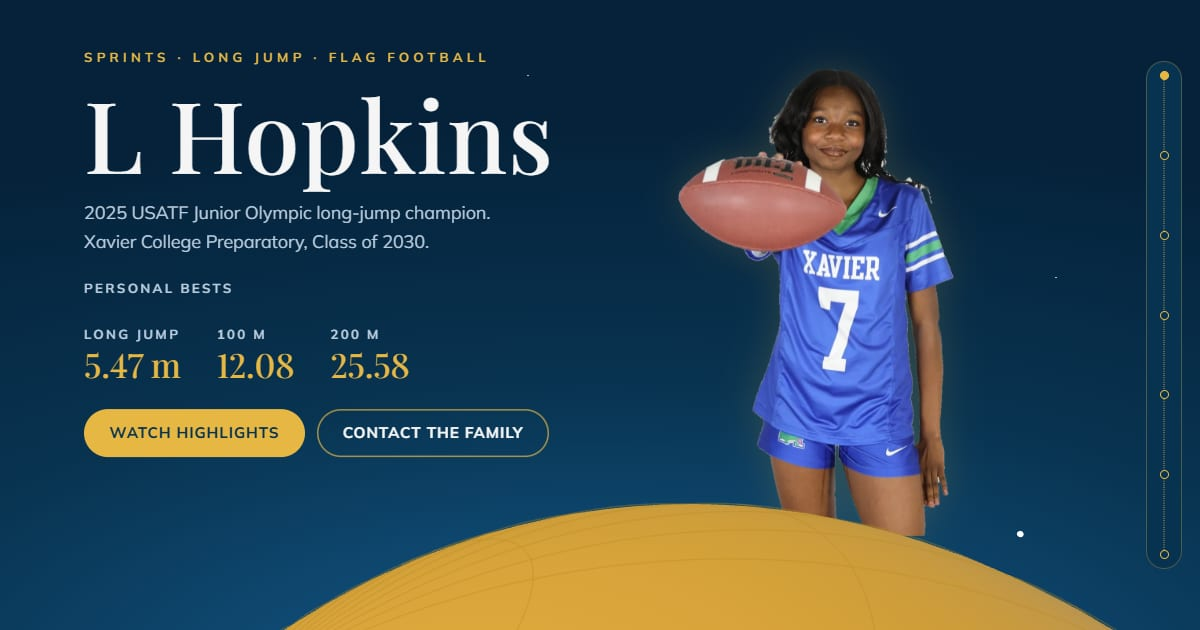
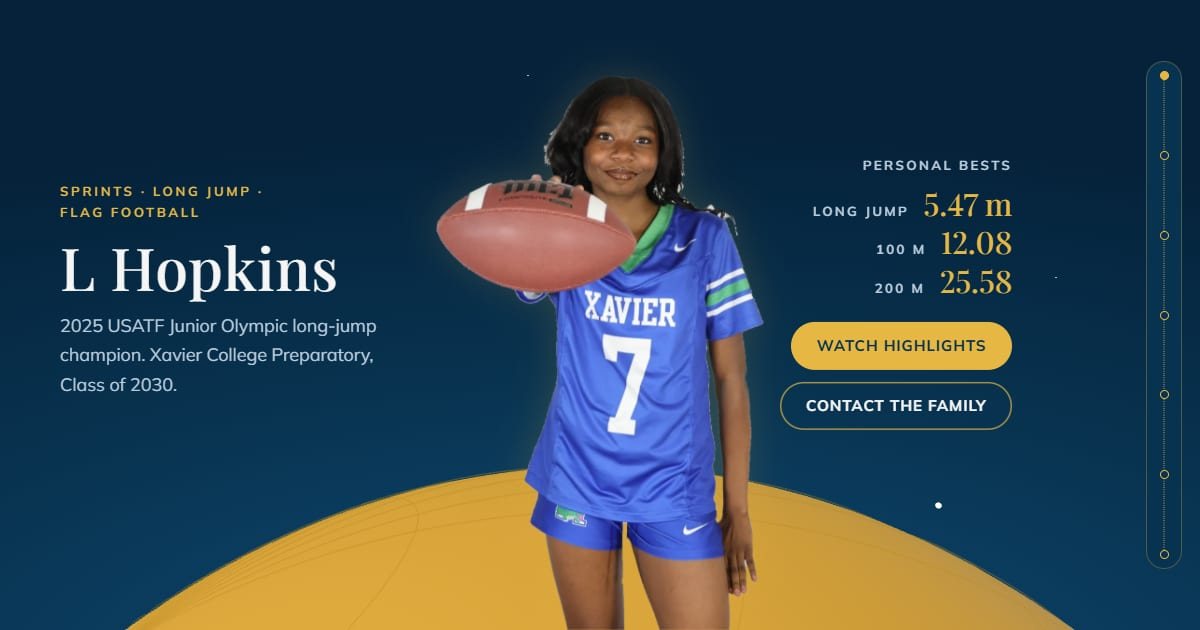
Hero: L front and center, flush with the bottom edge

diff --git a/site.css b/site.css
@@ -407,3 +407,78 @@ html { -webkit-tap-highlight-color: transparent; -webkit-text-size-adjust: 100%;
 @media (max-width: 860px) { .board__table tr.is-title { background: var(--blue); border-color: rgb(231 183 68 / .6); } }
 /* The other two jumps stay readable once landed. */
 .flights__svg .arc.is-done { opacity: .7; }
+
+/* ---------------------------------------------- hero: L front and center */
+/* L stands centred in front of the planet; the cut at her legs sits exactly on
+   the bottom edge of the hero, which is the bottom of the screen while pinned.
+   The copy splits around her: who she is on the left, her proof on the right. */
+.takeoff__stage { --horizon: .74; --lx: .5; }
+.takeoff__l {
+  left: 50%; bottom: 0; z-index: 3;
+  height: min(88vh, 100% - 6vh); width: auto;
+  transform: translate3d(calc(-50% + var(--mx, 0) * 8px), 0, 0) scale(calc(1 + var(--sc-p, 0) * .03));
+  transform-origin: 50% 100%;
+}
+.takeoff__planet, .takeoff__poster { z-index: 2; }
+.takeoff__copy {
+  z-index: 4; left: max(1.5rem, 5vw); right: calc(max(1.5rem, 5vw) + 2.5rem); width: auto; top: 46%;
+  transform: translate3d(0, calc(-50% - var(--sc-p, 0) * 5vh), 0);
+  display: grid; grid-template-columns: minmax(0, 1fr) min(34vw, 30rem) minmax(0, 1fr); align-items: center; gap: 0 1.5rem;
+}
+.takeoff__id { grid-column: 1; display: grid; gap: 1rem; justify-items: start; }
+.takeoff__proof { grid-column: 3; display: grid; gap: .6rem; justify-items: end; text-align: right; }
+.takeoff__proof .takeoff__stats { justify-content: flex-end; }
+.takeoff__proof .takeoff__actions { justify-content: flex-end; }
+.takeoff__title { font-size: clamp(3rem, 1rem + 4.6vw, 6.2rem); }
+.takeoff__line { max-width: 30ch; }
+@media (max-width: 1100px) and (min-width: 861px) {
+  .takeoff__copy { grid-template-columns: minmax(0, 1fr) min(30vw, 22rem) minmax(0, 1fr); }
+  .takeoff__stats { gap: 1rem; }
+  .takeoff__actions { flex-direction: column; align-items: flex-end; }
+}
+@media (max-width: 860px) {
+  .takeoff__stage { --horizon: .8; }
+  .takeoff__copy { left: 50%; right: auto; top: 6vh; width: min(30rem, calc(100vw - 2.5rem)); transform: translate3d(-50%, calc(var(--sc-p, 0) * -4vh), 0); grid-template-columns: 1fr; gap: .7rem; }
+  .takeoff__id, .takeoff__proof { grid-column: 1; justify-items: center; text-align: center; }
+  .takeoff__proof .takeoff__stats, .takeoff__proof .takeoff__actions { justify-content: center; }
+  .takeoff__id { gap: .6rem; }
+  .takeoff__l { height: 44vh; }
+}
+@media (min-width: 600px) and (max-width: 860px) { .takeoff__l { height: 50vh; } }
+@media (prefers-reduced-motion: reduce) {
+  .takeoff__l { transform: translateX(-50%); }
+  .takeoff__copy { transform: translateY(-50%); }
+}
+@media (prefers-reduced-motion: reduce) and (max-width: 860px) {
+  .takeoff__copy { transform: translateX(-50%); }
+}
+/* The name never breaks; the top line wraps only between its items. */
+.takeoff__title { white-space: nowrap; font-size: clamp(2.6rem, 6vw, 5.6rem); }
+.takeoff__kicker span { white-space: nowrap; }
+.takeoff__id .takeoff__kicker { letter-spacing: .2em; }
+.takeoff__stats dt, .takeoff__stats dd { white-space: nowrap; }
+.takeoff__copy { grid-template-columns: minmax(0, 1fr) min(32vw, 28rem) minmax(0, 1fr); }
+@media (max-width: 1100px) and (min-width: 861px) {
+  .takeoff__l { height: min(80vh, 100% - 6vh); }
+  .takeoff__copy { grid-template-columns: minmax(0, 1fr) min(30vw, 20rem) minmax(0, 1fr); }
+  .takeoff__stats dd { font-size: 1.55rem; }
+  .takeoff__stats dt { letter-spacing: .1em; }
+}
+@media (max-width: 860px) { .takeoff__title { font-size: clamp(2.6rem, 11vw, 4.6rem); } }
+/* Her figure is about 0.6 of her height wide, so the centre column follows the
+   viewport height; copy sizes to whatever is left on each side. */
+@media (min-width: 861px) {
+  .takeoff__copy { grid-template-columns: minmax(0, 1fr) 56vh minmax(0, 1fr); }
+  .takeoff__title { font-size: clamp(2.6rem, min(5.6vw, 9.5vh), 5.6rem); }
+  .takeoff__proof .takeoff__actions { flex-direction: column; align-items: flex-end; }
+}
+@media (min-width: 861px) {
+  .takeoff__l { height: min(88vh, 100% - 6vh, 64vw); }
+  .takeoff__copy { grid-template-columns: minmax(0, 1fr) min(56vh, 40vw) minmax(0, 1fr); }
+  .takeoff__title { font-size: clamp(2.6rem, min(4.9vw, 9.5vh), 5.6rem); }
+  /* Personal bests as a right-aligned list: event, then mark. */
+  .takeoff__proof .takeoff__stats { flex-direction: column; align-items: flex-end; gap: .35rem; margin: .2rem 0 .8rem; }
+  .takeoff__proof .takeoff__stats > div { display: flex; align-items: baseline; gap: .9rem; }
+  .takeoff__proof .takeoff__stats dd { margin: 0; font-size: clamp(1.6rem, 1.1rem + 1.1vw, 2.3rem); }
+}
+@media (max-width: 1100px) and (min-width: 861px) { .takeoff__l { height: min(80vh, 100% - 6vh, 64vw); } }

diff --git a/index.html b/index.html
@@ -51,9 +51,12 @@
     <div data-sc-stage class="takeoff__stage">
       <div class="takeoff__sky" aria-hidden="true"></div>
       <div class="takeoff__copy">
-        <p class="takeoff__kicker">Sprints · Long jump · Flag football</p>
-        <h1 class="takeoff__title">L Hopkins</h1>
-        <p class="takeoff__line">2025 USATF Junior Olympic long-jump champion. Xavier College Preparatory, Class of 2030.</p>
+        <div class="takeoff__id">
+          <p class="takeoff__kicker"><span>Sprints ·</span> <span>Long jump ·</span> <span>Flag football</span></p>
+          <h1 class="takeoff__title">L Hopkins</h1>
+          <p class="takeoff__line">2025 USATF Junior Olympic long-jump champion. Xavier College Preparatory, Class of 2030.</p>
+        </div>
+        <div class="takeoff__proof">
         <p class="takeoff__statlabel">Personal bests</p>
         <dl class="takeoff__stats">
           <div><dt>Long jump</dt><dd>5.47 m</dd></div>
@@ -63,6 +66,7 @@
         <div class="takeoff__actions">
           <a class="button" href="#highlights">Watch highlights</a>
           <a class="button button--ghost" href="#contact">Contact the family</a>
+        </div>
         </div>
       </div>
       <img class="takeoff__l" src="assets/uniform-football-700.webp" width="700" height="1187"
